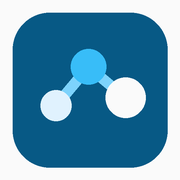
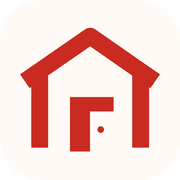
団体ロゴに合わせてファビコンを更新

diff --git a/tools/build-brand-assets.py b/tools/build-brand-assets.py
@@ -35,6 +35,31 @@ def draw_mark(draw, box, background="#0F172A"):
         draw.ellipse((x-r, y-r, x+r, y+r), fill=fill)
 
 
+def draw_house_mark(draw, box):
+    """団体ロゴの家と扉を、小サイズでも判別できる形で描く。"""
+    x0, y0, x1, y1 = box
+    width, height = x1 - x0, y1 - y0
+    red = "#C92B20"
+    cream = "#FFFAF5"
+    radius = int(min(width, height) * .22)
+    draw.rounded_rectangle(box, radius=radius, fill=cream)
+    stroke = max(3, int(width * .095))
+    roof = [
+        (x0 + width * .14, y0 + height * .45),
+        (x0 + width * .50, y0 + height * .20),
+        (x0 + width * .86, y0 + height * .45),
+    ]
+    draw.line(roof, fill=red, width=stroke, joint="curve")
+    draw.line((x0 + width * .22, y0 + height * .42, x0 + width * .22, y0 + height * .82), fill=red, width=stroke)
+    draw.line((x0 + width * .78, y0 + height * .42, x0 + width * .78, y0 + height * .82), fill=red, width=stroke)
+    door = (x0 + width * .39, y0 + height * .54, x0 + width * .63, y0 + height * .84)
+    draw.rectangle(door, fill=red)
+    draw.rectangle((x0 + width * .50, y0 + height * .62, x0 + width * .63, y0 + height * .84), fill=cream)
+    knob = width * .018
+    cx, cy = x0 + width * .56, y0 + height * .72
+    draw.ellipse((cx-knob, cy-knob, cx+knob, cy+knob), fill=red)
+
+
 def build_ogp():
     source = Image.open(BACKGROUND).convert("RGB")
     image = ImageOps.fit(source, (1200, 630), method=Image.Resampling.LANCZOS, centering=(.5, .5)).convert("RGBA")
@@ -58,9 +83,9 @@ def build_ogp():
 
 
 def build_icons():
-    master = Image.new("RGBA", (512, 512), "#FAFAFA")
+    master = Image.new("RGBA", (512, 512), (0, 0, 0, 0))
     draw = ImageDraw.Draw(master)
-    draw_mark(draw, (36, 36, 476, 476), background="#075985")
+    draw_house_mark(draw, (0, 0, 512, 512))
     master.resize((180, 180), Image.Resampling.LANCZOS).save(ROOT / "apple-touch-icon.png", optimize=True)
     master.resize((32, 32), Image.Resampling.LANCZOS).save(ROOT / "favicon.png", optimize=True)
 
